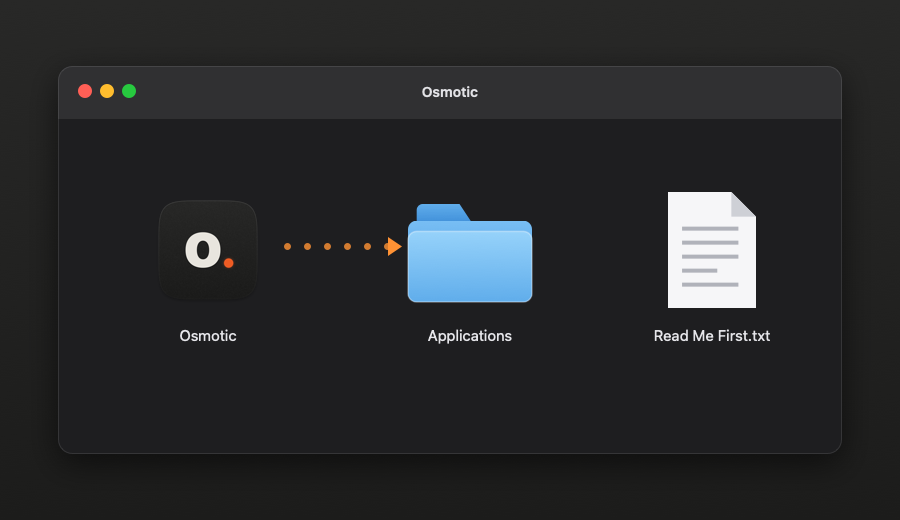
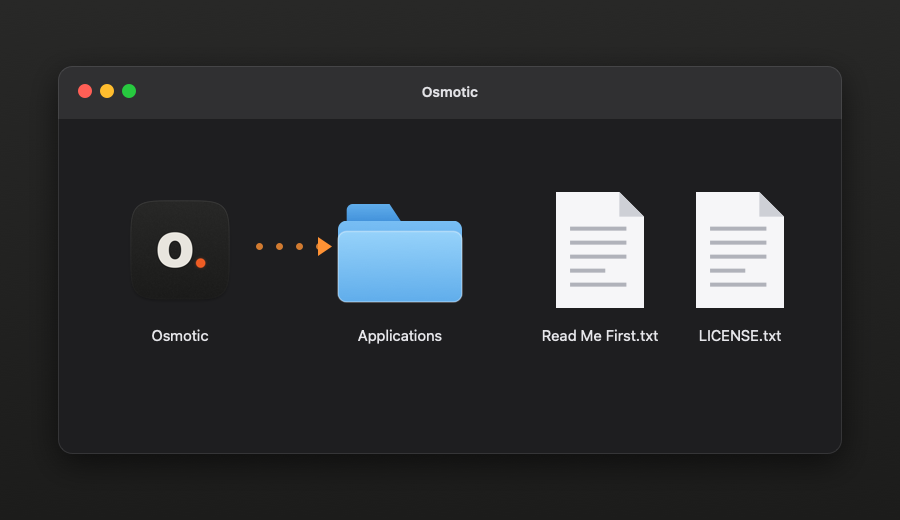
Release 0.3.0 notes; the DMG illustration shows its real contents
CHANGELOG: the Unreleased work becomes 0.3.0, app first (Settings key, the
guide, the security fixes, the new icon and lights), the website last. The
install illustration's disk image now holds what release.sh puts in it:
the app, Applications, Read Me First.txt and LICENSE.txt.

diff --git a/scripts/make_install_steps.swift b/scripts/make_install_steps.swift
@@ -181,8 +181,8 @@ func iconItem(centerX: CGFloat, top: CGFloat, size: CGFloat, labelY: CGFloat, la
 // rest; the clip (step-1.mp4, played once on the page) is the same window with the drag happening.
 let dmg = NSRect(x: 58, y: 66, width: W - 116, height: 388)
 let iconRow = dmg.minY + 122
-let appCenter = NSPoint(x: dmg.minX + 150, y: iconRow + 62)
-let folderCenter = NSPoint(x: dmg.midX + 20, y: iconRow + 70)
+let appCenter = NSPoint(x: dmg.minX + 122, y: iconRow + 62)
+let folderCenter = NSPoint(x: dmg.minX + 342, y: iconRow + 70)
 let appIcon = NSImage(contentsOf: root.appendingPathComponent("build/icon-1024.png"))
 
 /// `t` is the clip's time in seconds; nil draws the still (no pointer, the guide showing).
@@ -201,16 +201,19 @@ func step1(_ t: Double?) {
     iconItem(centerX: folderCenter.x, top: row, size: 124, labelY: labelY, label: "Applications") { r in
         folder(NSRect(x: r.minX, y: r.minY + 16, width: r.width, height: r.height - 26))
     }
-    iconItem(centerX: dmg.maxX - 130, top: row, size: 124, labelY: labelY, label: "Read Me First.txt") { r in
-        document(NSRect(x: r.minX + 18, y: r.minY + 4, width: r.width - 36, height: r.height - 8))
+    // What release.sh puts in the disk image besides the app: the first-launch note and the license.
+    for (centerX, label) in [(dmg.minX + 542, "Read Me First.txt"), (dmg.minX + 682, "LICENSE.txt")] {
+        iconItem(centerX: centerX, top: row, size: 124, labelY: labelY, label: label) { r in
+            document(NSRect(x: r.minX + 18, y: r.minY + 4, width: r.width - 36, height: r.height - 8))
+        }
     }
 
     // The page's own pointer: the drag, as a run of LEDs from the app to the folder. In the clip
     // they light one after another ahead of the icon.
     let dotY = H - row - 62
-    var x = win.minX + 226
+    var x = appCenter.x + 76
     var i = 0.0
-    while x < win.midX - 62 {
+    while x < folderCenter.x - 82 {
         let lit = t.map { smooth(($0 - 0.7 - i * 0.07) / 0.15) } ?? 1
         amber.withAlphaComponent(0.25 + 0.55 * lit).setFill()
         NSBezierPath(ovalIn: NSRect(x: x, y: dotY, width: 7, height: 7)).fill()
@@ -218,9 +221,9 @@ func step1(_ t: Double?) {
         i += 1
     }
     let head = NSBezierPath()
-    head.move(to: NSPoint(x: win.midX - 48, y: dotY + 3.5))
-    head.line(to: NSPoint(x: win.midX - 62, y: dotY + 13))
-    head.line(to: NSPoint(x: win.midX - 62, y: dotY - 6))
+    head.move(to: NSPoint(x: folderCenter.x - 68, y: dotY + 3.5))
+    head.line(to: NSPoint(x: folderCenter.x - 82, y: dotY + 13))
+    head.line(to: NSPoint(x: folderCenter.x - 82, y: dotY - 6))
     head.close()
     amber.setFill()
     head.fill()

diff --git a/CHANGELOG.md b/CHANGELOG.md
@@ -4,26 +4,31 @@ Format: [Keep a Changelog](https://keepachangelog.com/en/1.1.0/); versions: [Sem
 
 ## [Unreleased]
 
+## [0.3.0] - 2026-09-15
+
+Safer around the camera, easier to find your way, and a new look for the lights. Updating from 0.2.0 happens inside the app; macOS asks for its permissions once more because this build is not notarized yet.
+
 ### Added
-- A landing page at https://smithplus.github.io/Osmotic/: static HTML and CSS in the app's style, published by GitHub Pages, with install steps, a comparison, an FAQ and an illustration of each step of the install.
-- A user guide (`docs/GUIDE.md`), which the Help menu now opens: every screen, the keyboard shortcuts and what to try when something fails.
-- Settings › Credits now names the maker and links a way to support the work.
 - A Settings key on the top plate, next to Bluetooth and in the library beside Disconnect.
-- The landing page opens with a short looping video of a whole session, drawn by the app itself; the Live section has its own (record, stop, change mode), and the first install step shows the drag to Applications.
+- A user guide (`docs/GUIDE.md`), which the Help menu now opens: every screen, the keyboard shortcuts and what to try when something fails.
+- Settings › Credits names the maker and links a way to support the work.
 
 ### Security
 - Sizes stated by the camera's web server are bounded, and small reads (thumbnails, preview stills) are capped: a device answering at the camera's address could otherwise crash the app or make it buffer without end.
 - Quitting waits for Wi-Fi work still running (a Cancel or Disconnect handing the network back), and downloads can't start while Live is starting.
 
 ### Changed
+- New app icon: the wordmark's "o." (a lowercase o and the orange dot) on a graphite plate.
+- LEDs look like panel lamps: a domed lens in its bezel, with a halo on the plate when lit.
 - Day folders are on by default.
 - Orange keys are a shade darker so their white text stays readable (WCAG AA).
 - VoiceOver: the LCD readouts read as one, progress meters report their value, and Connect and Download Day keys say which camera or day.
 - Notices say what to do next; Spanish follows Latin American macOS ("la Mac", "Configuración del Sistema").
-- New app icon: the wordmark's "o." (a lowercase o and the orange dot) on a graphite plate.
-- LEDs look like panel lamps: a domed lens in its bezel, with a halo on the plate when lit.
+- The wordmark lines up with the panels below it, its dot on the baseline like a period.
 - Thumbnails already decoded show at once when the grid redraws, instead of blinking in again.
-- The wordmark lines up with the panels below it. The window buttons sit in the title-bar band above, so no gap is kept for them. Its dot sits on the baseline like a period.
+
+### Website and docs
+- A landing page at https://smithplus.github.io/Osmotic/: static HTML and CSS in the app's style, with a looping video of a whole session drawn by the app itself, a Live video, install steps, a comparison and an FAQ.
 - README and project docs are in English only (the app itself stays in English and Spanish).
 
 ## [0.2.0] - 2026-09-15

diff --git a/CLAUDE.md b/CLAUDE.md
@@ -9,7 +9,7 @@ Native macOS app (Swift 6.2, SwiftUI, macOS 15+) for DJI Osmo cameras (target: *
 - **Live**: capture control (record, photo, mode) and live view over the same datalink.
 - **Webcam**: the camera plugged in over USB-C as a UVC webcam (Zoom, Meet and OBS see it too).
 
-Port of [KonradIT/osmosis](https://github.com/KonradIT/osmosis) (Android/Kotlin); control and live view follow [Kaze for DJI](https://github.com/brianmerchant/Kaze-for-DJI) (MIT). Repo `github.com/smithplus/Osmotic`, branch `main`; releases on GitHub Releases (v0.2.0 is the first with a DMG).
+Port of [KonradIT/osmosis](https://github.com/KonradIT/osmosis) (Android/Kotlin); control and live view follow [Kaze for DJI](https://github.com/brianmerchant/Kaze-for-DJI) (MIT). Repo `github.com/smithplus/Osmotic`, branch `main`; releases on GitHub Releases (v0.2.0 was the first with a DMG; latest v0.3.0).
 
 Languages: the UI is **English, localized to Rioplatense Spanish** (String Catalog); code, comments, commits and docs are in English. No em dashes in anything people read (the owner finds they read as machine-written); see the writing skill.
 

diff --git a/docs/STATUS.md b/docs/STATUS.md
@@ -1,6 +1,6 @@
 # Status
 
-_Last updated: 2026-09-15. Two tests with a real Pocket 3: Files (build `776be7d`) and Files + Live (build 25, branch `ui/te-style`). Not yet tested with hardware: Webcam, photo in Photo mode, permissions with the app opened from Finder, first pairing._
+_Last updated: 2026-09-15 (v0.3.0 released). Two tests with a real Pocket 3: Files (build `776be7d`) and Files + Live (build 25, branch `ui/te-style`). Not yet tested with hardware: Webcam, photo in Photo mode, permissions with the app opened from Finder, first pairing._
 
 ## Next hardware test (in this order)
 
